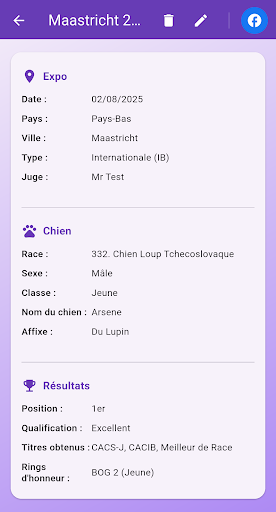
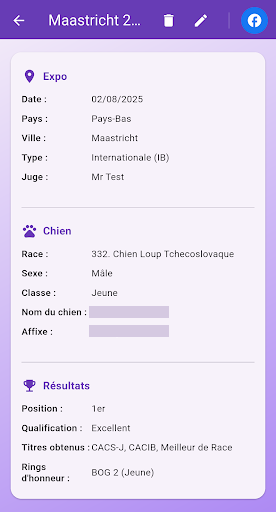
Enrichir la fiche technique BoB

Changed region(s): [[0.3188, 0.5938, 0.6087, 0.6562]]

diff --git a/src/data/caseStudies.ts b/src/data/caseStudies.ts
@@ -18,6 +18,10 @@ export type CaseStudyContent = {
     description: string;
     role?: string;
   };
+  featureOverview?: {
+    solution: string;
+    items: readonly (CaseStudyNote & { image?: CaseStudyImage })[];
+  };
   architecture?: {
     stages: readonly (CaseStudyNote & { stack: string })[];
     detail?: string;
@@ -83,72 +87,105 @@ export const caseStudies = {
       "Le carnet en développement permet de suivre le poids, la composition corporelle et l’hydratation, de tenir un journal et de sauvegarder ses données localement. L’interface propose les thèmes clair et sombre.",
   },
   bob: {
-    subtitle: "Carnet d’expositions canines et suivi des titres",
-    heroImage: {
-      src: "/projects/bob/suivi-titres.webp",
-      width: 600,
-      height: 1299,
-      alt: "Écran Suivi Titres de BoB, avec les titres regroupés par pays et la progression des titres français.",
-      caption: "L’écran Suivi Titres affiche la progression par titre. Capture publiée sur l’App Store.",
-    },
+    subtitle: "Gestion des expositions canines",
     context: {
       description:
-        "Après plusieurs expositions, il devient difficile de savoir quels résultats comptent pour un titre et quelles démarches restent à faire. BoB rattache les résultats à chaque chien et les transforme en étapes de suivi.",
-      role: "J’ai conçu le parcours de saisie et le modèle de données, puis développé l’interface Flutter et les règles de progression des titres.",
+        "Quand on présente plusieurs chiens dans différents pays, il faut retrouver le bon résultat, préparer le prochain déplacement et garder un historique par chien. Les informations sont souvent réparties entre calendriers, documents et notes prises sur le ring.",
+      role: "J’ai conçu les parcours et le modèle de données, développé l’application Flutter et son intégration Firebase, puis assuré sa publication et sa maintenance sur le Web, Android et iOS.",
+    },
+    featureOverview: {
+      solution:
+        "BoB relie les fiches chiens, les dates à venir et les résultats dans un même carnet. Une fois saisi, un résultat alimente l’historique, les statistiques et le suivi des titres.",
+      items: [
+        {
+          title: "Tableau de bord",
+          description: "Accès aux chiens, aux expositions, à l’agenda et aux outils de préparation depuis un même espace.",
+        },
+        {
+          title: "Fiches chiens",
+          description: "Gestion de plusieurs chiens, avec une fiche d’identité, un carnet de santé, l’historique des participations et le palmarès de chacun.",
+        },
+        {
+          title: "Expositions et résultats",
+          description: "Saisie du pays, du juge et de la classe, puis du qualificatif, du classement et des récompenses. L’historique se consulte avec des filtres.",
+          image: {
+            src: "/projects/bob/detail-exposition.png",
+            width: 276,
+            height: 512,
+            alt: "Écran de détail d’une exposition avec la date, le pays, le juge, les informations du chien et son classement.",
+            caption: "Le détail d’une exposition réunit les informations du concours et le résultat. L’identité du chien est masquée.",
+          },
+        },
+        {
+          title: "Calendrier et préparation",
+          description: "Agenda des expositions à venir, filtres, checklist de départ et mémo hôtel. Sur mobile, les rappels vaccinaux et les notifications d’exposition dépendent des préférences.",
+        },
+        {
+          title: "Statistiques et palmarès",
+          description: "Bilan des performances par chien, partage des résultats et du palmarès, pièces jointes et création de diplômes PDF.",
+          image: {
+            src: "/projects/bob/statistiques.webp",
+            width: 636,
+            height: 1005,
+            alt: "Onglet Statistiques avec un graphique en anneau par pays et un histogramme par type d’exposition.",
+            caption: "Les participations par pays et par type d’exposition. Extrait de la présentation de BoB.",
+          },
+        },
+        {
+          title: "Progression des titres",
+          description: "Les règles par pays et par titre déterminent les étapes remplies et les résultats manquants. L’organisme compétent reste responsable de l’homologation officielle.",
+          image: {
+            src: "/projects/bob/suivi-titres.webp",
+            width: 600,
+            height: 898,
+            alt: "Onglet Suivi Titres de BoB avec les titres regroupés par pays et une barre de progression pour chaque titre.",
+            caption: "Le suivi des titres affiche la progression par pays et par titre.",
+          },
+        },
+      ],
     },
     architecture: {
       stages: [
         {
-          title: "Saisie et consultation",
+          title: "Interface et modèles métier",
           stack: "Flutter / Dart",
-          description: "L’exposant enregistre une exposition et ses résultats dans le carnet de son chien.",
+          description: "Une base de code commune porte les parcours Web et mobiles. Les modèles relient les résultats aux fiches chiens pour alimenter l’historique et les calculs.",
         },
         {
-          title: "Compte et historique",
+          title: "Compte et synchronisation",
           stack: "Firebase Auth / Cloud Firestore",
-          description: "Firebase Auth identifie le compte. Firestore synchronise ses fiches chiens et ses résultats entre le Web et les applications mobiles.",
+          description: "L’identification rattache les données au compte. Les requêtes Firestore et les filtres par chien structurent la consultation, avec un carnet synchronisé entre les appareils.",
         },
         {
-          title: "Progression des titres",
-          stack: "Règles métier en Dart",
-          description: "L’application relit les résultats du chien et calcule la progression à partir des étapes remplies.",
+          title: "Photos et documents",
+          stack: "Cloudinary / Firebase Storage",
+          description: "Cloudinary sert les photos dans des formats adaptés à l’affichage. Firebase Storage gère les pièces jointes des expositions. Firestore conserve les références aux fichiers.",
         },
       ],
       detail:
-        "Les photos suivent un flux distinct. Cloudinary héberge les images et fournit les variantes d’affichage. Firestore conserve les références associées aux résultats.",
+        "Les règles de propriété Firestore contrôlent l’accès aux fiches et aux résultats du compte identifié. Le carnet personnel est accessible après connexion.",
     },
     highlights: [
       {
-        title: "Suivi des titres et progression métier",
+        title: "Règles variables selon les titres",
         description:
-          "Pour le Champion des Expositions Nationales Jeune (CHEN-J), BoB compte les CACS-J des expositions nationales françaises à partir du 1ᵉʳ juin 2023. Il affiche la progression et reprend les informations de confirmation et d’ADN de la fiche du chien. L’exposant vérifie les trois juges distincts et les conditions du club de race. La Centrale Canine homologue le titre sur dossier, à adresser au club.",
+          "Les règles Dart évaluent les résultats par pays, type d’exposition, période et récompense. Pour le titre national jeune français, BoB compte les CACS-J admissibles et laisse à l’exposant la vérification des juges distincts et des conditions du club de race.",
       },
       {
-        title: "Des résultats structurés par chien",
+        title: "Interface multilingue",
         description:
-          "Chaque résultat Firestore est rattaché au compte et au chien. Il distingue date, pays, type d’exposition, classe, juge, qualificatif, classement et récompenses. Le même historique alimente le palmarès et les filtres propres à chaque titre.",
+          "Les libellés de l’interface sont traduits dans des fichiers de ressources. Les données d’exposition gardent une structure commune pour comparer les résultats entre pays.",
       },
       {
-        title: "Statistiques, documents et préparation",
+        title: "Offre gratuite et Premium",
         description:
-          "Les statistiques par chien facilitent le bilan de saison. Les fiches, photos et documents aident à retrouver les éléments du dossier. Le calendrier, la checklist et le mémo hôtel et exposition accompagnent la préparation des déplacements.",
-      },
-    ],
-    screenshots: [
-      {
-        src: "/projects/bob/detail-exposition.png",
-        width: 276,
-        height: 512,
-        alt: "Fiche d’exposition BoB présentant le pays, le type d’exposition, le juge, la classe du chien, le classement et les récompenses.",
-        caption: "Le détail montre les données d’une exposition internationale, hors du périmètre du CHEN-J. Capture publiée sur Google Play.",
+          "Le carnet existe en version gratuite. Sur mobile, RevenueCat gère les droits Premium et AdMob la publicité. L’application adapte l’accès à certaines fonctions selon l’offre.",
       },
     ],
     quality: {
       detail:
-        "Les tests du CHCS vérifient que les expositions étrangères sont écartées et qu’un même identifiant ne compte qu’une fois. Les tests du championnat britannique vérifient qu’un juge répété ne satisfait pas l’exigence de juges distincts.",
+        "Les tests automatisés couvrent notamment les expositions hors périmètre, les doublons, les juges distincts pour les titres britanniques et la génération des diplômes PDF.",
     },
-    delivered:
-      "Le carnet est accessible sur le Web, Android et iOS. Il réunit le palmarès, le suivi des titres et le carnet de santé des chiens.",
   },
   lofy: {
     subtitle: "Suivi d’élevage canin, des chiens aux portées",

diff --git a/src/components/case-study/ProjectCaseStudy.tsx b/src/components/case-study/ProjectCaseStudy.tsx
@@ -70,7 +70,7 @@ function StudyFigure({ image, hero = false }: { image: CaseStudyImage; hero?: bo
 
 export default function ProjectCaseStudy({ project, study }: { project: Project; study: CaseStudyContent }) {
   const { current, icon, name } = project;
-  const { architecture, context, delivered, heroImage, highlights, quality, screenshots, subtitle } = study;
+  const { architecture, context, delivered, featureOverview, heroImage, highlights, quality, screenshots, subtitle } = study;
   const badges = getProjectBadges(project);
   const stack = getMainStack(current.implementedStack);
   const upcoming = [
@@ -85,7 +85,8 @@ export default function ProjectCaseStudy({ project, study }: { project: Project;
   const hasRoadmap = upcoming.length > 0 || plannedStack.length > 0;
   const hasEvolution = !!delivered || hasRoadmap;
   const hasClosingSections = !!(screenshots?.length || quality || hasEvolution);
-  const hasSections = !!(context || architecture?.stages.length || highlights?.length || hasClosingSections);
+  const featureImages = featureOverview?.items.flatMap(({ image }) => (image ? [image] : [])) ?? [];
+  const hasSections = !!(context || featureOverview || architecture?.stages.length || highlights?.length || hasClosingSections);
 
   return (
     <article className="py-8 sm:py-12">
@@ -181,6 +182,28 @@ export default function ProjectCaseStudy({ project, study }: { project: Project;
                     <p>{context.role}</p>
                   </div>
                 )}
+              </div>
+            </StudySection>
+          )}
+
+          {featureOverview && (
+            <StudySection title="Fonctionnalités principales">
+              <p className="mb-4 max-w-3xl text-sm leading-relaxed text-zinc-300">{featureOverview.solution}</p>
+              <ul className="grid gap-4 sm:grid-cols-2 lg:grid-cols-3" role="list">
+                {featureOverview.items.map(({ title, description }) => (
+                  <li key={title} className={`${panel} p-4 sm:p-5`}>
+                    <h3 className="font-semibold text-zinc-100">{title}</h3>
+                    <p className="mt-1.5 text-sm leading-relaxed text-zinc-300">{description}</p>
+                  </li>
+                ))}
+              </ul>
+            </StudySection>
+          )}
+
+          {featureImages.length > 0 && (
+            <StudySection title="Captures d’écran">
+              <div className="grid grid-cols-[repeat(auto-fit,minmax(min(100%,16rem),1fr))] gap-4">
+                {featureImages.map((image) => <StudyFigure key={image.src} image={image} />)}
               </div>
             </StudySection>
           )}

diff --git a/src/data/projects.ts b/src/data/projects.ts
@@ -78,7 +78,7 @@ export const projects: readonly Project[] = [
     name: "BoB",
     icon: "/projects/bob.png",
     summary:
-      "BoB centralise les résultats d’expositions canines, le suivi des titres de champion et le carnet de santé des chiens.",
+      "BoB réunit les fiches chiens, la préparation des expositions et le suivi des résultats dans un carnet synchronisé sur le Web et sur mobile.",
     domains: ["fullstack-web-mobile", "backend-business"],
     nature: "professional",
     visibility: "featured",
